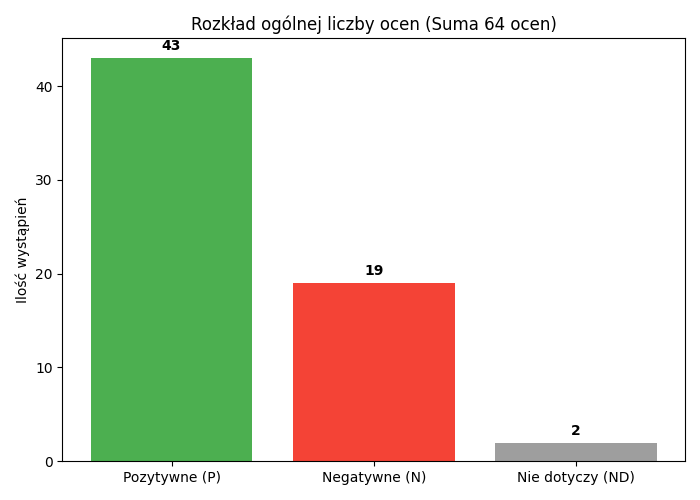
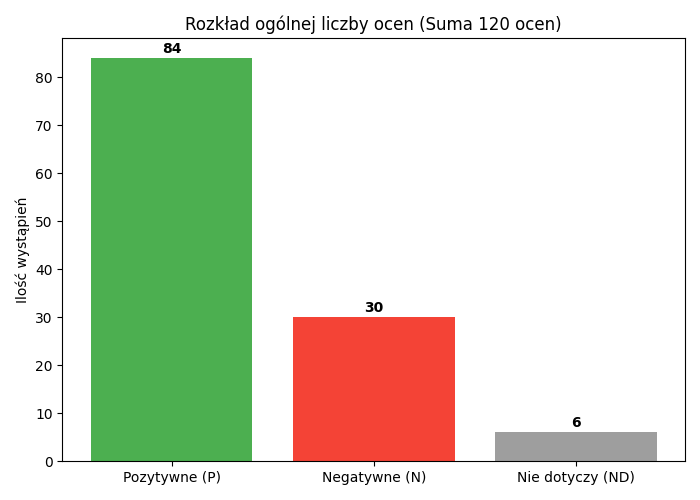
Update wytlumaczenie and fix document consistency

diff --git a/Task2/generate_graphs.py b/Task2/generate_graphs.py
@@ -1,25 +1,14 @@
 import matplotlib.pyplot as plt
+import re
 
-# Dane przeanalizowane z tabeli w pliku ResearchResults.typ
-# Każdy wiersz to oceny Twojej grupy badawczej wg kolumn A, J, M, S
-data = [
-    ['N', 'N', 'ND', 'P'],
-    ['P', 'P', 'P', 'P'],
-    ['ND', 'N', 'N', 'N'],
-    ['N', 'P', 'N', 'N'],
-    ['P', 'P', 'P', 'P'],
-    ['P', 'P', 'P', 'P'],
-    ['P', 'P', 'P', 'P'],
-    ['P', 'N', 'P', 'P'],
-    ['P', 'P', 'P', 'P'],
-    ['P', 'N', 'N', 'P'],
-    ['P', 'P', 'P', 'P'],
-    ['N', 'N', 'N', 'N'],
-    ['P', 'P', 'P', 'P'],
-    ['N', 'P', 'N', 'N'],
-    ['N', 'P', 'P', 'P'],
-    ['P', 'P', 'P', 'P']
-]
+# Parse data from ResearchResults.typ
+data = []
+with open('ResearchResults.typ', 'r', encoding='utf-8') as f:
+    for line in f:
+        # Match lines that look like: ..., [N], [N], [N], [P],
+        match = re.search(r'\[(P|N|ND)\],\s*\[(P|N|ND)\],\s*\[(P|N|ND)\],\s*\[(P|N|ND)\]', line)
+        if match:
+            data.append(list(match.groups()))
 
 # Zwykłe zliczenie ogólnej liczby poszczególnych ocen
 count_p = sum(row.count('P') for row in data)
@@ -32,7 +21,6 @@ consistent = 0
 conflictive = 0
 
 for row in data:
-    # Wrzucenie do seta eliminuje duplikaty. Długość 1 oznacza, że wszyscy ocenili jednakowo.
     if len(set(row)) == 1:
         consistent += 1
     else:
@@ -47,7 +35,7 @@ values_answers = [count_p, count_n, count_nd]
 colors_answers = ['#4CAF50', '#F44336', '#9E9E9E']
 
 bars_ans = plt.bar(labels_answers, values_answers, color=colors_answers)
-plt.title('Rozkład ogólnej liczby ocen (Suma 64 ocen)', fontsize=12)
+plt.title(f'Rozkład ogólnej liczby ocen (Suma {len(data)*4} ocen)', fontsize=12)
 plt.ylabel('Ilość wystąpień', fontsize=10)
 
 # Dodanie podpisów wartości nad kolumnami
@@ -66,7 +54,7 @@ values_consistency = [consistent, conflictive]
 colors_consistency = ['#2196F3', '#FFC107']
 
 bars_cons = plt.bar(labels_consistency, values_consistency, color=colors_consistency)
-plt.title('Zgodność ewaluatorów w obrębie 16 pytań', fontsize=12)
+plt.title(f'Zgodność ewaluatorów w obrębie {len(data)} pytań', fontsize=12)
 plt.ylabel('Ilość pytań', fontsize=10)
 
 # Dodanie podpisów wartości nad kolumnami

diff --git a/Task2/wytlumaczenie.md b/Task2/wytlumaczenie.md
@@ -1,0 +1,240 @@
+# Wytlumaczenie Task 2 - Maciej Żuralski
+
+## Krotka wersja do powiedzenia
+
+Badalismy dostepnosc desktopowej wersji Allegro w przegladarce Chrome. To nie byl klasyczny test uzytecznosci z uczestnikami, tylko audyt ekspercki dostepnosci oparty o wybrane kryteria WCAG 2.1 AA. Sprawdzalismy te sama sciezke zakupowa co w Task 1: wyszukanie myszy komputerowej, ustawienie filtrow, wejscie w oferte, dodanie produktu do koszyka, wybor dostawy do paczkomatu InPost i metody platnosci BLIK.
+
+Jako Maciej Żuralski bylem jednym z czterech audytorow. W tabeli wynikow odpowiada mi kolumna `M`. Moja rola polegala na niezaleznej ocenie tej samej sciezki wedlug checklisty, a potem na porownaniu wynikow z ocenami Adriana, Juliusza i Sebastiana. Po rozbieznosciach wspolnie ustalalismy, czy dany problem jest rzeczywista bariera, czy wynika np. z innej sesji Allegro, popupu, reklamy albo roznej interpretacji czytnika ekranu.
+
+Najwazniejszy wniosek: Allegro pozwala przejsc glowne kroki zakupowe, ale w badanej sciezce znalezlismy bariery dostepnosci. Najistotniejsze dotyczyly: pulapek klawiaturowych w popupach/galerii, dynamicznych filtrow bez jasnego komunikatu dla czytnika ekranu, problemow z opisami obrazow i hierarchia naglowkow oraz niedostatecznego informowania o linkach otwieranych w nowej karcie.
+
+## Co jest w folderze Task2
+
+- `Task2.typ` - glowny raport Task 2. Zawiera analize Allegro, grupy uzytkownikow z deficytami, plan badania, wykonanie badania, wyniki, wnioski i lessons learned.
+- `ResearchResults.typ` - osobny plik z tabela wynikow audytu. To z niego wynikaja oceny `P`, `N` i `ND` dla czterech audytorow.
+- `generate_graphs.py` - skrypt generujacy wykresy z danych z tabeli.
+- `chart_answers.png` - wykres liczby ocen pozytywnych, negatywnych i nie dotyczy.
+- `chart_consistency.png` - wykres pokazujacy, ile pytan mialo zgodne oceny audytorow, a ile bylo spornych.
+- `Project_Task2_template.typ` i `Project_Task2_template.pdf` - szablon od prowadzacego, czyli punkt odniesienia dla struktury raportu.
+
+## Czy dokument zgadza sie z Task 1
+
+Tak, glowny zakres jest spojny:
+
+- Task 1 byl o uzytecznosci Allegro dla okazjonalnych kupujacych.
+- Task 2 jest o dostepnosci Allegro dla osob z deficytami wzrokowymi, motorycznymi i poznawczymi.
+- W obu taskach analizowana jest desktopowa wersja Allegro w Chrome.
+- W obu taskach uzyta jest podobna sciezka: wyszukanie produktu, filtry, oferta, koszyk, InPost, BLIK.
+- Task 2 sensownie nawiazuje do Task 1, bo sprawdza, czy problemy z filtrami, oferta i koszykiem sa tez barierami dla osob korzystajacych np. z klawiatury, powiekszenia albo czytnika ekranu.
+
+## Co zostalo sprawdzone pod katem halucynacji
+
+Nie widac duzej halucynacji typu zmiana aplikacji, inna grupa, inny produkt albo inny proces niz w Task 1. Dokument jest ogolnie zgodny z templatka prowadzacego.
+
+Rzeczy, na ktore trzeba uwazac przy odpowiedzi ustnej:
+
+- Nie mowic, ze to reprezentatywne badanie osob z niepelnosprawnosciami. To byl audyt ekspercki wykonany przez czterech badaczy.
+- Nie mowic, ze Allegro jest w pelni dostepne. Bezpieczniej: "w badanej sciezce glowne kroki byly wykonalne, ale znalezlismy bariery".
+- Nie mowic, ze wyniki sa statystycznie reprezentatywne. To sa liczby z checklisty, nie analiza statystyczna populacji.
+- Problemy typu popupy, reklamy i personalizacja Allegro moga byc zalezne od sesji, dlatego czesc wynikow byla konfliktowa.
+- Narzedzia typu WAVE, Axe i NVDA byly wsparciem audytu, ale automatyczne narzedzia nie wykrywaja wszystkich problemow dostepnosci.
+
+W `Task2.typ` poprawione zostaly niespojnosci liczbowe i nazwa kryterium dotyczacego pulapki klawiaturowej. Poprawne podsumowanie danych to:
+
+- 30 pytan kontrolnych,
+- 4 audytorow,
+- 120 ocen czastkowych,
+- 84 oceny pozytywne,
+- 30 ocen negatywnych,
+- 6 ocen `ND`,
+- 15 pytan ocenionych jednomyslnie pozytywnie,
+- 3 pytania ocenione w wiekszosci lub w pelni negatywnie,
+- 1 pytanie ocenione jednomyslnie jako "nie dotyczy",
+- 11 pytan z rozbieznosciami miedzy audytorami.
+
+## Struktura raportu wedlug templatki
+
+### 1. Analysis of the software
+
+Opisujemy Allegro jako marketplace e-commerce. Klientami biznesowymi sa glownie sprzedawcy placacy prowizje i oplaty za promowanie ofert, a takze kupujacy korzystajacy z uslug typu Smart. Uzytkownikami w badanej sciezce sa kupujacy korzystajacy z portalu, zwlaszcza osoby z potrzebami dostepnosciowymi.
+
+Najwazniejsze funkcje badane w raporcie:
+
+- wyszukiwarka,
+- filtry i sortowanie,
+- lista wynikow,
+- strona oferty,
+- koszyk,
+- dostawa,
+- platnosc.
+
+Najwazniejsze wymagania niefunkcjonalne:
+
+- zgodnosc z WCAG 2.1 AA,
+- czytelnosc,
+- kontrast,
+- obsluga klawiatura,
+- brak pulapek klawiaturowych,
+- poprawna semantyka dla czytnikow ekranu,
+- czytelnosc przy powiekszeniu 200%.
+
+### 2. User analysis
+
+W raporcie sa trzy glowne grupy:
+
+- osoby z niepelnosprawnoscia wzroku: potrzebuja tekstow alternatywnych, dobrego kontrastu, logicznych naglowkow i wsparcia czytnika ekranu;
+- osoby z ograniczeniami motorycznymi: potrzebuja pelnej obslugi klawiatura, widocznego fokusu i braku pulapek klawiaturowych;
+- osoby z trudnosciami poznawczymi, np. dysleksja lub problemy z koncentracja: potrzebuja prostych komunikatow, przewidywalnej nawigacji i mniejszego chaosu wizualnego.
+
+### 3. Accessibility study
+
+Badanie mialo charakter mieszany, ale nie w sensie klasycznego eksperymentu z uczestnikami. Jak to wyjasnic:
+
+"Jakosciowe bylo opisanie konkretnych barier i rekomendacji, a ilosciowe bylo policzenie ocen z checklisty: pozytywne, negatywne, nie dotyczy oraz zgodnosc audytorow."
+
+Metody:
+
+- checklist WCAG 2.1 AA,
+- test klawiatura,
+- sprawdzenie widocznosci fokusu,
+- sprawdzenie powiekszenia do 200%,
+- wsparcie narzedziami WAVE i Axe DevTools,
+- sprawdzenie dzialania z czytnikiem ekranu,
+- porownanie ocen czterech audytorow.
+
+### 4. Study execution
+
+Proba w tym tasku to nie byli uzytkownicy zewnetrzni, tylko czteroosobowy zespol audytorow:
+
+- Adrian,
+- Juliusz,
+- Maciej,
+- Sebastian.
+
+Kazdy ocenial te sama sciezke wedlug 30 pytan kontrolnych. Potem oceny zostaly zestawione. Jesli wszyscy dali ten sam wynik, pytanie bylo bezsporne. Jesli byly roznice, zespol ponownie przechodzil dany fragment i ustalal interpretacje.
+
+Co poszlo gorzej:
+
+- dynamiczne reklamy i popupy Allegro powodowaly rozne wyniki u roznych osob;
+- rozna biegłość w NVDA mogla wplynac na interpretacje elementow;
+- strona Allegro ma bardzo gesty DOM, przez co manualna analiza jest trudna;
+- Allegro jest personalizowane, wiec nie kazdy widzi dokladnie ten sam ekran.
+
+### 5. Study results
+
+Najwazniejsze wyniki:
+
+- ogolnie duzo elementow dziala poprawnie: klawiatura, widoczny fokus, kontrast w badanej sciezce, brak automatycznego dzwieku;
+- najwiekszy jednoznaczny problem to brak ostrzezenia przed otwieraniem linkow w nowej karcie;
+- sporne byly m.in. zlozone opisy grafik, naglowki, powiekszenie 200%, pulapki klawiaturowe i spojnosc nawigacji;
+- glownymi problemami praktycznymi byly galerie/popupy, dynamiczne filtry, alt teksty, naglowki sprzedawcow i komunikaty bledow.
+
+### 6. Conclusions and implications
+
+Wnioski dla Allegro:
+
+- ujednolicic galerie i modale, zeby zawsze dalo sie wyjsc klawiatura, np. przez `Esc`;
+- dodac/naprawic komunikaty dla czytnikow ekranu przy dynamicznej zmianie filtrow, np. `aria-live`;
+- wymuszac lepsze teksty alternatywne i semantyke w szablonach sprzedawcow;
+- poprawic komunikaty walidacji w koszyku tak, zeby fokus trafial na blad;
+- informowac uzytkownika, kiedy link otwiera nowa karte.
+
+### 7. Lessons learned
+
+Najwazniejsze lekcje:
+
+- sama automatyczna analiza nie wystarcza;
+- dostepnosc trzeba testowac manualnie, bo narzedzie nie oceni sensownosci alt tekstu albo logicznej kolejnosci fokusu;
+- dynamiczne, personalizowane strony e-commerce sa trudne do audytu;
+- na przyszlosc warto ujednolicic srodowisko testowe: ta sama rozdzielczosc, czysty profil Chrome, te same ustawienia konta, te same dodatki.
+
+## Przykladowe pytania prowadzacego i odpowiedzi
+
+### 1. Czym Task 2 rozni sie od Task 1?
+
+Task 1 ocenial uzytecznosc Allegro dla okazjonalnych kupujacych, czyli czy zwykly uzytkownik rozumie wyszukiwarke, filtry, oferte i koszyk. Task 2 ocenia dostepnosc, czyli czy ta sama sciezka jest wykonalna dla osob z deficytami wzrokowymi, motorycznymi i poznawczymi, np. przy uzyciu klawiatury, powiekszenia albo czytnika ekranu.
+
+### 2. Dlaczego wybraliscie Allegro?
+
+Bo to popularny i rozbudowany serwis e-commerce, a proces zakupowy ma wiele elementow istotnych dla dostepnosci: wyszukiwarke, filtry, listy wynikow, obrazy, formularze, koszyk, popupy i platnosci. To daje dobry material do audytu WCAG.
+
+### 3. Kto jest customer, a kto user?
+
+Customer to podmiot generujacy przychod platformy, glownie sprzedawcy placacy prowizje i oplaty oraz czesciowo kupujacy z uslugami premium, np. Smart. User w naszym badaniu to osoba korzystajaca z serwisu, czyli kupujacy przechodzacy przez proces wyszukiwania i koszyka.
+
+### 4. Jaka byla proba badawcza?
+
+W Task 2 proba to czterech audytorow z zespolu, a nie zewnetrzni uczestnicy z niepelnosprawnosciami. Kazdy audytor ocenil 30 pytan kontrolnych, wiec lacznie zebralismy 120 ocen czastkowych.
+
+### 5. Czy to badanie jest jakosciowe czy ilosciowe?
+
+Mieszane. Jakosciowe, bo opisujemy konkretne bariery, ich wplyw i rekomendacje. Ilosciowe, bo liczymy oceny z checklisty: ile bylo `P`, `N`, `ND` oraz ile pytan bylo zgodnych albo spornych miedzy audytorami.
+
+### 6. Dlaczego uzywaliscie WCAG 2.1 AA?
+
+WCAG 2.1 AA to powszechnie stosowany standard oceny dostepnosci stron internetowych. Poziom AA jest praktycznym poziomem docelowym dla publicznych i komercyjnych interfejsow, bo laczy wymagania podstawowe z realnymi oczekiwaniami wobec stron.
+
+### 7. Dlaczego nie wystarczy Axe albo WAVE?
+
+Automatyczne narzedzia dobrze wykrywaja czesc problemow technicznych, np. kontrast albo brak etykiety. Nie oceniaja jednak wszystkiego: czy alt tekst ma sens, czy kolejnosc fokusu jest logiczna, czy komunikat bledu jest zrozumialy albo czy uzytkownik rzeczywiscie rozumie dynamiczna zmiane wynikow.
+
+### 8. Co konkretnie robil Maciej?
+
+Jako Maciej Żuralski wykonywalem niezalezna inspekcje tej samej sciezki i wpisywalem wyniki do kolumny `M`. Sprawdzalem m.in. dostepnosc elementow z klawiatury, widocznosc fokusu, problemy z naglowkami, tekstami alternatywnymi, popupami i zachowaniem interfejsu przy dynamicznych zmianach.
+
+### 9. Jakie byly najwazniejsze wyniki liczbowe?
+
+Bylo 30 pytan i 4 audytorow, czyli 120 ocen. Z tego 84 byly pozytywne, 30 negatywne i 6 nie dotyczy. 15 pytan bylo jednomyslnie pozytywnych, 3 pytania ocenione w wiekszosci lub w pelni negatywnie, 1 pytanie jednomyslnie "nie dotyczy", a 11 mialo rozbieznosci miedzy audytorami.
+
+### 10. Jaki byl najwiekszy problem dostepnosci?
+
+Najbardziej krytyczne praktycznie byly pulapki klawiaturowe w popupach lub galerii, bo moga zatrzymac osobe korzystajaca tylko z klawiatury. Bardzo istotne byly tez dynamiczne filtry, bo czytnik ekranu nie zawsze jasno informuje, ze lista wynikow sie zmienila.
+
+### 11. Czy Allegro jest niedostepne?
+
+Nie postawilbym tak mocnej tezy. W badanej sciezce glowne zadania byly mozliwe do wykonania, ale wykryto bariery, ktore moga utrudnic albo czasem zablokowac korzystanie osobom z okreslonymi potrzebami. Czyli: ogolnie dziala, ale wymaga poprawek.
+
+### 12. Czy wyniki sa reprezentatywne statystycznie?
+
+Nie. To nie jest badanie statystyczne populacji. To audyt ekspercki z policzeniem wynikow checklisty. Liczby pomagaja uporzadkowac wyniki, ale nie pozwalaja powiedziec, jaki procent wszystkich uzytkownikow Allegro ma dany problem.
+
+### 13. Dlaczego wyniki audytorow sie roznily?
+
+Allegro jest dynamiczne i personalizowane. Rozne osoby mogly widziec inne popupy, reklamy albo modul ofert. Do tego dochodzi rozny poziom wprawy w obsludze czytnika ekranu i rozna interpretacja niektorych kryteriow WCAG.
+
+### 14. Jak potraktowaliscie rozbieznosci?
+
+Najpierw kazdy ocenial niezaleznie. Potem porownalismy wyniki. Jesli pojawila sie rozbieznosc, ponownie sprawdzalismy dany fragment i omawialismy, czy problem jest rzeczywisty, zalezy od sesji, czy wynika z interpretacji kryterium.
+
+### 15. Czemu nie badaliscie prawdziwych osob niewidomych albo z niepelnosprawnoscia ruchowa?
+
+W tym zadaniu celem byl audyt dostepnosci wybranej aplikacji, a nie pelne badanie z rekrutacja osob z niepelnosprawnosciami. Uzycie realnych uczestnikow byloby lepsze w kolejnym etapie, ale wymagaloby wiecej czasu, zgody, rekrutacji i dokladniejszego scenariusza.
+
+### 16. Co oznacza `P`, `N` i `ND`?
+
+`P` oznacza ocene pozytywna, czyli kryterium bylo spelnione w badanym zakresie. `N` oznacza problem lub niezgodnosc. `ND` oznacza, ze dany element nie wystapil w ocenianym widoku albo nie dalo sie go sensownie ocenic w tej sciezce.
+
+### 17. Dlaczego brak informacji o nowej karcie to problem?
+
+Dla osoby widzacej zmiana karty jest zwykle zauwazalna. Dla osoby korzystajacej z czytnika ekranu albo klawiatury nagle otwarcie nowego kontekstu moze byc dezorientujace, jesli link nie informuje o tym przed aktywacja.
+
+### 18. Co oznacza pulapka klawiaturowa?
+
+To sytuacja, w ktorej uzytkownik wchodzi fokusem w jakis element, np. modal albo galerie zdjec, ale nie moze sie z niego wydostac sama klawiatura. To jest szczegolnie powazne dla osob, ktore nie uzywaja myszy.
+
+### 19. Co byscie poprawili w Allegro jako pierwsze?
+
+Najpierw poprawilbym elementy, ktore moga blokowac zadanie: modale i galerie pod katem wyjscia klawiatura. Potem dynamiczne filtry z komunikatami `aria-live`, a nastepnie alt teksty, naglowki i komunikaty bledow w koszyku.
+
+### 20. Co byscie zrobili inaczej w kolejnym badaniu?
+
+Ujednolicilibysmy srodowisko: ta sama przegladarka, czysty profil, taka sama rozdzielczosc, te same dodatki i ustawienia konta. Dodalbysmy tez prawdziwych uzytkownikow z konkretnymi potrzebami, zeby sprawdzic, czy problemy z audytu faktycznie wystepuja w praktyce.
+
+## Bezpieczne zdania na obrone
+
+- "To byl audyt ekspercki, nie certyfikacja dostepnosci Allegro."
+- "Wnioski odnosza sie do badanej sciezki zakupowej, a nie do calego portalu."
+- "Automatyczne narzedzia byly pomocnicze, finalna ocena wymagala testow manualnych."
+- "Rozbieznosci wynikaly m.in. z dynamicznej natury Allegro i personalizacji widokow."
+- "Najwazniejsze bariery dotyczyly klawiatury, dynamicznych zmian, tekstow alternatywnych i semantyki."
+- "Task 2 rozszerza Task 1: najpierw sprawdzalismy uzytecznosc, potem dostepnosc tej samej sciezki."
